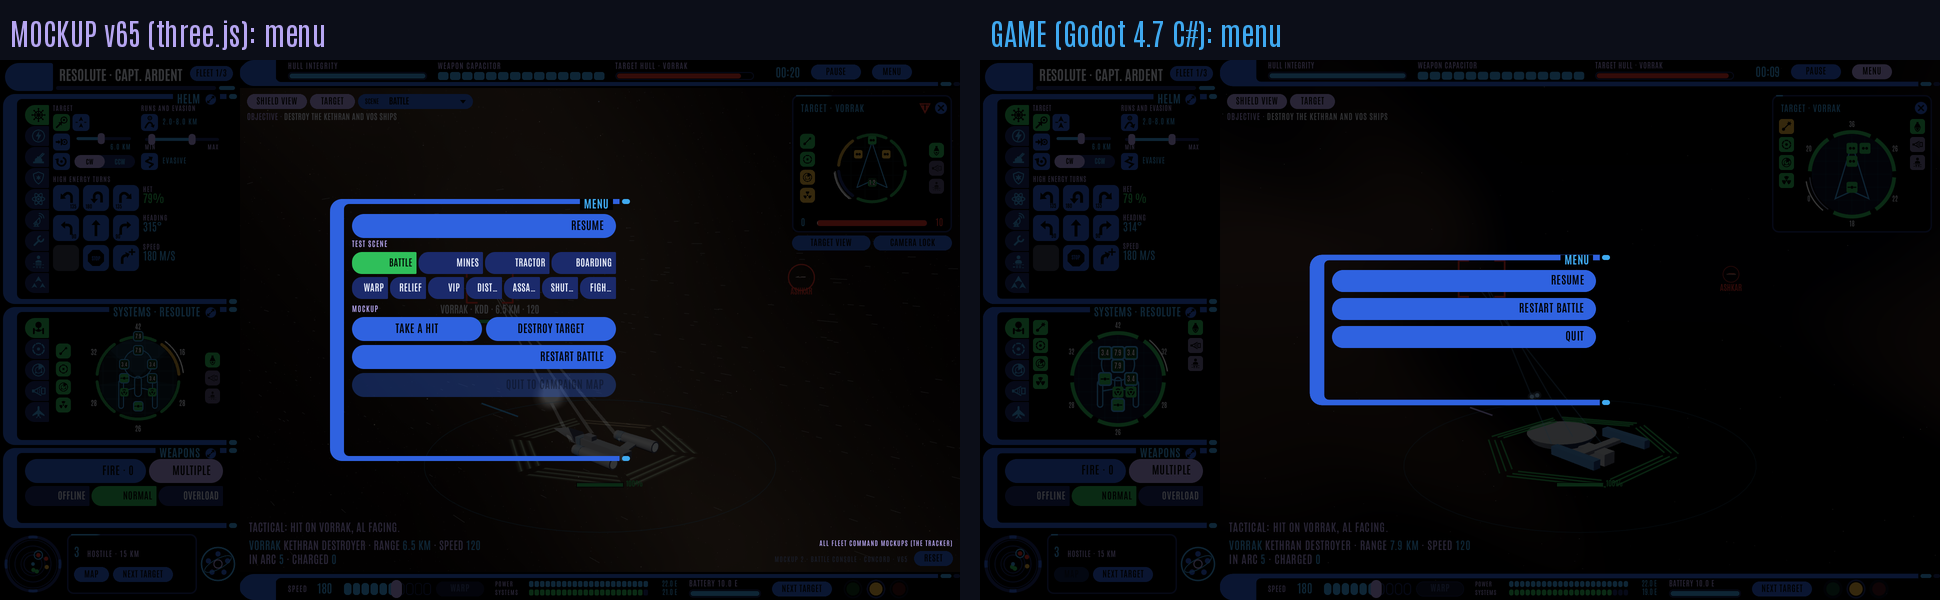
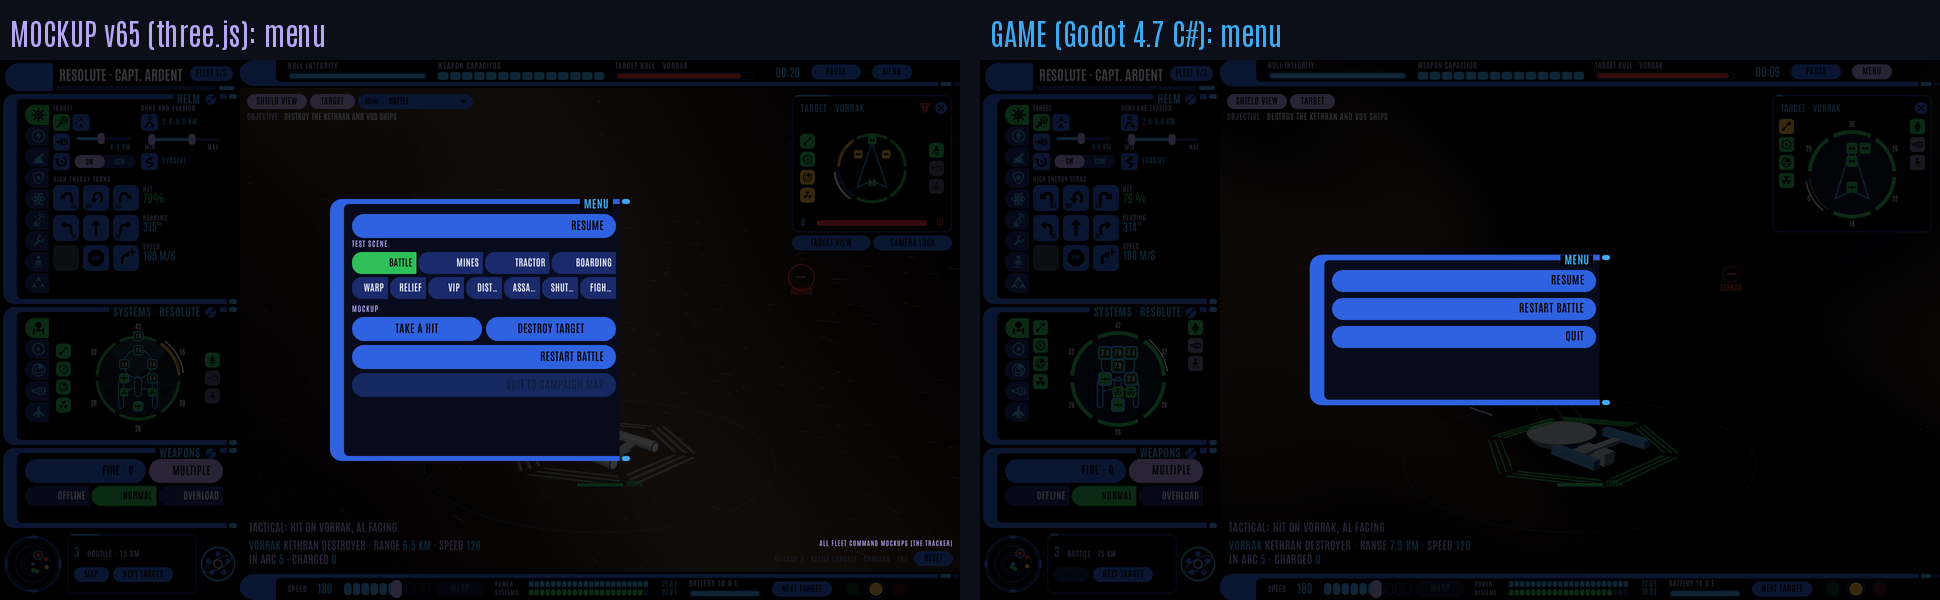
Menu sheet: a solid background inside its frame, in the game and the mockup (v66)
Owner, 2026-11-03: "Pause menu should have a background". The dimmed console no
longer shows through the menu's keys. The mockup's uiSheet draws the same, so the
two still agree; the desktop session publishes v66.

Claude-Session: https://claude.ai/code/session_01RGPQurDKpzWDpg4xrsLTtP

diff --git a/docs/mockups/battle-console.html b/docs/mockups/battle-console.html
@@ -3671,12 +3671,15 @@ function uiView() {
 }
 // Mockup only: a heavy hit on your ship from the nearest enemy, to watch the boxes change as damage lands.
 function takeHit() { const s = W.player, foe = enemiesOf(s)[0] || { x: s.x, z: s.z - 10, side: 1 }; for (let n = 0; n < 3; n++) { s.shields[facingFrom(s, foe.x, foe.z)] = 0; damage(s, foe, 9, 'hull'); const k = SUBSYS[Math.floor(W.rand.dmg() * SUBSYS.length)][0]; if (k !== 'reactor') s.sys[k] = Math.max(0, s.sys[k] - 0.3); const m = s.mounts[Math.floor(W.rand.dmg() * s.mounts.length)]; m.hp = Math.max(0, m.hp - 0.45); } }
+// The sheet's solid background inside its frame (owner, 2026-11-03: "Pause menu should have a background"), stopping
+// short of the frame's end caps; the game draws the same (src/Game/Ui/Panels.cs, MenuCard).
+function sheetBg(x, y, w, h) { g.fillStyle = '#070b1c'; g.beginPath(); g.roundRect(x, y, w - 21, h, [24, 0, 0, 24]); g.fill(); }
 // The in-game menu, and the battle's end: a sheet over everything that takes all input while it is up.
 function uiSheet() {
   const end = W.over && !menuOpen;
   if (!menuOpen && !W.over) return;
   g.fillStyle = 'rgba(0,0,0,0.78)'; g.fillRect(0, 0, RW, RH); hit('sheet.block', 0, 0, RW, RH, {});
-  const w = 600, h = end ? 300 : 524, x = (RW - w) / 2, y = (RH - h) / 2, P0 = panel('sheet', [x, y, w, h], end ? ({ won: 'Victory', jumped: 'Jumped' }[W.over] || 'Ship lost') : 'Menu', false, true);
+  const w = 600, h = end ? 300 : 524, x = (RW - w) / 2, y = (RH - h) / 2, P0 = (sheetBg(x, y, w, h), panel('sheet', [x, y, w, h], end ? ({ won: 'Victory', jumped: 'Jumped' }[W.over] || 'Ship lost') : 'Menu', false, true));
   let yy = P0.y + 8;
   if (end) {
     TXT(W.over === 'won' || W.over === 'jumped' ? W.overWhy : `${W.player.name} is lost`, P0.x, yy + 20, P0.w); LBL(`Battle time ${mmss(W.t)}`, P0.x, yy + 46); yy += 64;

diff --git a/src/Game/Ui/Panels.cs b/src/Game/Ui/Panels.cs
@@ -217,12 +217,19 @@ public sealed partial class BottomStrip : ConsolePanel
 /// (the mockup's uiSheet): resume, restart the battle, quit.</summary>
 public sealed partial class MenuCard : ConsolePanel
 {
+    /// <summary>The sheet's background: near black with the Concord deep blue in it, so it reads as a panel over the dim.</summary>
+    private static readonly Color MenuBackground = new("#070b1c");
+
     protected override void DrawPanel()
     {
         DrawRect(new Rect2(Vector2.Zero, Size), new Color(0, 0, 0, 0.78f));
         Ui.Reg("sheet.block", new Rect2(Vector2.Zero, Size));
         float w = 600, h = 300;
-        Rect2 b = Frame(new Rect2((Size.X - w) / 2, (Size.Y - h) / 2, w, h), "Menu", false);
+        var at = new Rect2((Size.X - w) / 2, (Size.Y - h) / 2, w, h);
+        // a solid background inside the frame (owner, 2026-11-03: "Pause menu should have a background"), so the dimmed
+        // console does not show through the keys; it stops short of the frame's end caps
+        Shapes.RoundRect(this, new Rect2(at.Position, new Vector2(w - 21, h)), MenuBackground, 24, 0, 0, 24);
+        Rect2 b = Frame(at, "Menu", false);
         float y = b.Position.Y + 8, bw = b.Size.X;
         Button("m.resume", new Rect2(b.Position.X, y, bw, 44), "Resume", X.Act.Menu, center: false); y += 56;
         Button("m.restart", new Rect2(b.Position.X, y, bw, 44), "Restart battle", X.Act.Restart, center: false); y += 56;

diff --git a/docs/artifacts/battle-console/README.md b/docs/artifacts/battle-console/README.md
@@ -83,3 +83,4 @@
 - Version 63 published 2026-11-03, version id `1793693251-28bb`: the transport figure solid above the waist, dissolving below, no pad; Engines drawn as a thruster.
 - Version 64 published 2026-11-03, version id `1793697270-2da4`: ship panel and systems display icons to the same standard; a particle stream flies from the sender to the receiver of every beam.
 - Version 65 published 2026-11-03, version id `1793698757-f1e7`: a click selects (enemy locked, friendly or planet selected), no floating Lock target or Select keys. Published from the cloud session: no desktop session was reachable.
+- 2026-11-03, version 66 (cloud session, not yet published): the menu sheet gets a solid background inside its frame (owner: "Pause menu should have a background"). The desktop session publishes it to the existing slug.

diff --git a/mockup-work.md b/mockup-work.md
@@ -72,6 +72,9 @@ stuff in game, we have chosen Godot 4.7 with c# so begin integration now"). The 
 weapons, radar, the strips and the stand-in battle) is in `src/`, with stills in `docs/screenshots/game/`. The tracker's
 stage for this mockup still needs updating from the desktop session (cloud sessions do not publish).
 
+Version 66 (2026-11-03; owner: "Pause menu should have a background"): the menu sheet has a solid background inside its
+frame, in the mockup and the game alike. Committed from the cloud session; the desktop session publishes it.
+
 Owner, 2026-10-30. Ship systems on the left.
 
 - **Main panels**: helm, repairs, science, transport, tactical, comms, point defense, map, fleet, power,
